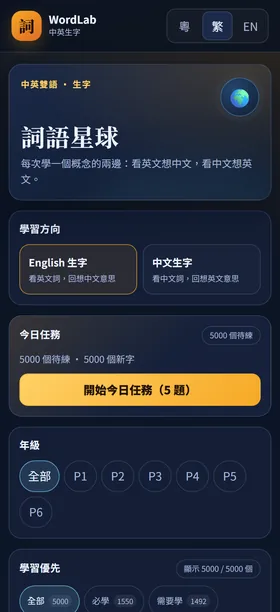
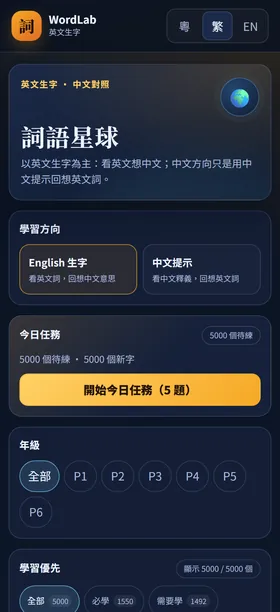
Update hub landing page

diff --git a/wordlab/app.js b/wordlab/app.js
@@ -28,18 +28,18 @@
     footLocal: ['純前端 · 進度只存喺呢部機 · 冇帳號', '純前端 · 進度只存於本機 · 沒有帳號', 'Local only · no account'],
     footHub: ['← 返回門戶', '← 返回門戶', '← Back to hub'],
     footSource: ['詞庫：96 個自寫概念＋4,904 個 ECDICT（MIT）', '詞庫：96 個自寫概念＋4,904 個 ECDICT（MIT）', 'Word bank: 96 written concepts + 4,904 ECDICT entries (MIT)'],
-    eyebrow: ['中英雙語 · 生字', '中英雙語 · 生字', 'Bilingual vocabulary'],
+    eyebrow: ['英文生字 · 中文對照', '英文生字 · 中文對照', 'English vocabulary · Chinese support'],
     heroTitle: ['詞語星球', '詞語星球', 'WordLab'],
     heroLead: [
-      '每次學一個概念嘅兩邊：睇英文諗中文，睇中文諗英文。',
-      '每次學一個概念的兩邊：看英文想中文，看中文想英文。',
-      'Learn both sides of each idea — English to Chinese, Chinese to English.',
+      '以英文生字為主：睇英文諗中文；中文方向只係用中文提示回想英文詞。',
+      '以英文生字為主：看英文想中文；中文方向只是用中文提示回想英文詞。',
+      'English vocabulary first: see English, recall Chinese; the Chinese cue is only there to help recall the English word.',
     ],
     subjectTitle: ['學習方向', '學習方向', 'Learning direction'],
     subjectEn: ['English 生字', 'English 生字', 'English words'],
-    subjectZh: ['中文生字', '中文生字', 'Chinese words'],
+    subjectZh: ['中文提示', '中文提示', 'Chinese cue'],
     subjectEnHint: ['睇英文詞，回想中文意思', '看英文詞，回想中文意思', 'See English, recall Chinese'],
-    subjectZhHint: ['睇中文詞，回想英文意思', '看中文詞，回想英文意思', 'See Chinese, recall English'],
+    subjectZhHint: ['睇中文釋義，回想英文詞', '看中文釋義，回想英文詞', 'See the Chinese gloss, recall the English word'],
     dailyTitle: ['今日任務', '今日任務', 'Today’s mission'],
     dailyDue: ['{n} 個待練', '{n} 個待練', '{n} to review'],
     dailyNew: ['{n} 個新字', '{n} 個新字', '{n} new words'],

diff --git a/wordlab/index.html b/wordlab/index.html
@@ -6,7 +6,7 @@
     <title>詞語星球 · WordLab</title>
     <meta
       name="description"
-      content="中英雙語生字練習：字卡、配對、快問快答；用間隔重練記住生字。進度只存本機，首次載入後可離線使用。"
+      content="5,000 個英文常用字練習：字卡、配對、快問快答；用間隔重練記住生字。進度只存本機，首次載入後可離線使用。"
     />
     <meta name="theme-color" content="#1b2a4a" />
     <link rel="manifest" href="manifest.webmanifest" />
@@ -20,7 +20,7 @@
         <span class="brand__mark" aria-hidden="true">詞</span>
         <span>
           <strong>WordLab</strong>
-          <small>中英生字</small>
+          <small>英文生字</small>
         </span>
       </a>
       <div class="lang" role="group" aria-label="語言 / Language">

diff --git a/index.html b/index.html
@@ -762,8 +762,8 @@
           ],
 
           'wl.tag': [
-            '小學 1–6 年級中英生字',
-            '小學 1–6 年級中英生字',
+            '小學 1–6 年級英文生字（5,000）',
+            '小學 1–6 年級英文生字（5,000）',
             'Primary 1–6 bilingual vocabulary',
           ],
           'wl.desc': [

diff --git a/wordlab/sw.js b/wordlab/sw.js
@@ -2,7 +2,7 @@
  * Network-first：有網時攞最新，斷網時用快取；導航請求 fallback 去 index.html。
  * 只快取本站靜態檔，冇第三方。
  */
-const CACHE = 'wordlab-v5';
+const CACHE = 'wordlab-v6';
 const ASSETS = [
   './',
   './index.html',
